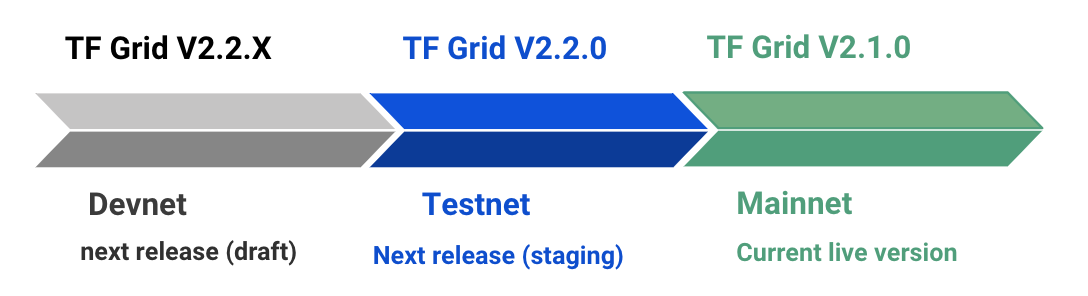
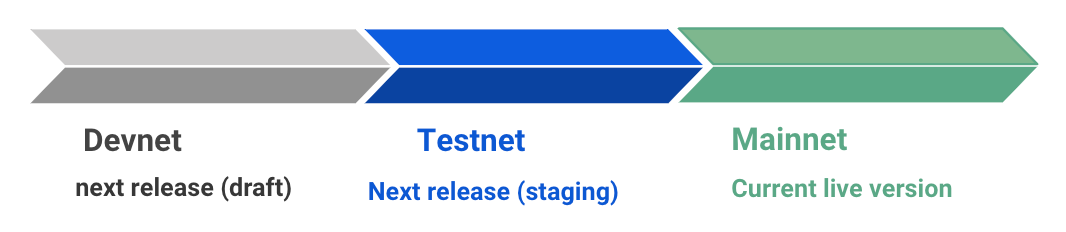
edit intro

diff --git a/src/intro.md b/src/intro.md
@@ -1,8 +1,8 @@
-# Threefold Grid 2.2 (Tesnet) Manual
+# Threefold Grid Manual
 
 ![](./img/storage_compute.png)
 
-Hi! Welcome to the __TF Grid 2.2 (Testnet) Manual__, a knowledge base for those interested in learning more about deploying a network and solutions on top of the __TF Grid 2.2 Testnet Environment__ via [__TF Grid Demo__](https://demo.grid.tf/) And [__3Bot__](https://deploy3bot.grid.tf/) . 
+Hi! Welcome to the __TF Grid Manual__, a knowledge base for those interested in learning more about deploying a network and solutions on top of the __TF Grid__ via [__TF Grid Demo__](https://demo.grid.tf/), [__Hosted 3Bot__](https://deploy3bot.grid.tf/) or a [__Local 3Bot__](local_3bot.md). 
 
 ## Navigate Your Way on the Manual
 
@@ -19,43 +19,81 @@ To learn all the basics you would need to complete before deploying a solution o
 
 Feel free to try deploying all available built-in TF Grid solutions (demo) and easy deployment manuals via [__TF Grid Demo__](marketplace.md) section. 
 
-If you're interested in deploying a cloud solution project on top of TF Grid (testnet), you would need to firstly run a 3Bot locally or online on a hosted environment. Feel free to check [__3Bot__](3bot.md) section to deploy a hosted 3Bot. 
+If you're interested in deploying a cloud solution project on top of TF Grid (both on main net or testnet), you would need to firstly run a 3Bot locally (local 3Bot) or online on a hosted environment (hosted 3Bot). Feel free to check [__3Bot__](3bot.md) section to read more about 3Bot. 
 
-If you're interested in more advanced technical hand-outs on cloud solution deployment by using a 3Bot that is installed on a local machine, check out our [__Advance Development__](develop.md) guide section. It will guide you from scratch on how to run your local 3Bot and deploy first cloud solution on the grid by using a step-by-step procedure and primitives.
+If you're interested in more advanced technical hand-outs on cloud infrastructure solution deployment, please check out our [__Advance Development__](develop.md) guide section. It will guide you from scratch on how to deploy your first cloud infrasturcture solution on the grid by using primitives on step-by-step procedures.
 
 If you're looking for an introduction to Threefold in general, please go to our main [__Threefold Wiki__](wiki.Threefold.io) 
 
 
 ## TF Grid: Where Are We Now?
 
-![](./img/environment.png)
+
+### Introducing TF Grid 2.2
 
 ```
-Release Stats (Aug 2020)
+Release Stats (Sept 2020)
 
 - Threefold Grid 
- - Current: TF Grid 2.1.0
- - Next: TF Grid 2.2.0
-
-- TF Grid Demo
- - Mainnet (2.1) - Production
- - Testnet (2.2) - Staging
+ - Current: TF Grid 2.2.0
+ - Next: TF Grid 2.2.X
 
 - 0-OS
- - Current: 0-OS V0.3.3
- - Next: 0-OS V.0.4.0
+ - Current: 0-OS V0.4.0
+ - Next: 0-OS V.0.4.
+
+- TF Grid Demo
+ - Mainnet (2.2) - Production
+ - Testnet (2.2) - Staging
+
 ```
 
-In brief, the Threefold Grid is composed of three different types of networks environments; Mainnet (production), Testnet (Staging), and Dev (Development). 
+In brief, the Threefold Grid is composed of two different types of public networks environments; Mainnet (production), Testnet (Staging). 
 
-The latest versions of 0-OS (TF Grid’s operating system) and their associated new features are first deployed for testing to the ‘Devnet’ and ‘Testnet’, before being released on the ‘Mainnet’ grid. Any farmer and partner will be able to choose to run their node on any of the 3 networks, by configuring their 0-OS boot process accordingly.
+![](./img/environment.png)
 
-We’ve been working hard to make it even easier for projects to deploy solutions on top of the grid with the new __TF Grid Demo__; enabling projects to deploy solutions on a hosted environment. 
 
-Currently TF Grid Demo 2.1 is released on Mainnet. Our next release - __TF Grid 2.2__ - will include certain exciting features like the Capacity Pools- where you could order IT capacity on the dashboard for your project directly from the farms. This feature is currently only available on the [__3Bot System Administrator Panel__](https://deploy3bot.grid.tf/). this is where we hope you could contribute as a __Testnet alpha tester__ and try to build your cloud solutions on. This manual is aimed to serve as your how-to on  easy solution deployment by using [__TF Grid Demo__](https://demo.grid.tf/) (testnet).
-
-## Testnet vs MainNet
-
-Below is a diagram that will help you understand the difference in between the testnet version and the mainnet version of the TF Grid. 
+The latest versions of 0-OS (TF Grid’s operating system) and their associated new features are first deployed to the  ‘Testnet’ for testing, before eventually being released on the ‘Mainnet’ grid. Any farmer and partner will be able to choose to run their node on any of the 3 networks, by configuring their 0-OS boot process accordingly.
 
 ![](./img/testnet_mainnet.png)
+
+
+We’ve been working hard to make it even easier for projects to deploy cloud infrastructure solutions on top of the TF Grid with the new [__Hosted 3Bot__](3bot.md); by enabling solution deployments on a hosted environment, as well as providing a demo platform where end-users can easily deploy open-source solutions on top of the TF Grid via [__TF Grid Demo__](marketplace.md).
+
+ __TF Grid 2.2.0__ is released for porduction on Mainnet and is also existing on Testnet as a testing environment. This latest release of __TF Grid 2.2.0__ includes certain exciting features like the Capacity Pools- where you could order IT capacity for your project directly from the farms via 3Bot Admin Panel dashboard. This feature is currently available as a part of your hosted 3Bot that you could deploy online from [the 3Bot Deployer](https://deploy3bot.grid.tf/). 
+
+Since __hosted 3Bot__ is a newly-released feature at Threefold, this is where we hope you could contribute as a __TF Grid Alpha Tester__ and try to build your cloud infrastructure solutions on. This manual also aims to serve as your how-to guide on easy eopen-source solution deployment by using __TF Grid Demo__.
+
+## MainNet and Testnet Product Components
+
+Below are the links of __TF Grid Product Components__ on both mainnet and testnet environments:
+
+### MAINNET
+
+__TF Grid Demo__
+    - [demo.grid.tf](demo.grid.tf)
+    - [demo.grid.tf](demo2.grid.tf) (staging)
+
+__3Bot Deployer__ (resulting on a 3Bot hosted on Main Net)
+    - [deploy3bot.grid.tf](deploy3bot.grid.tf)
+    - [deploy3bot2.grid.tf](deploy3bot2.grid.tf)
+
+__TF Capacity Explorer__
+    - [explorer.grid.tf](explorer.grid.tf)
+
+__Get FreeTFT__
+    - [getfreetft.threefold.io](getfreetft.threefold.io)
+
+### TESTNET
+
+__TF Grid Demo__
+    -  [demo.testnet.grid.tf](demo.testnet.grid.tf)
+
+__3Bot Deployer__ (resulting on a 3Bot hosted on Main Net)
+    - [deploy3bot.testnet.grid.tf](deploy3bot.testnet.grid.tf)
+
+__TF Capacity Explorer__
+    - [explorer.testnet.grid.tf](explorer.testnet.grid.tf)
+
+__Get FreeTFT__
+    - [getfreetft.testnet.threefold.io](getfreetft.testnet.threefold.io)
